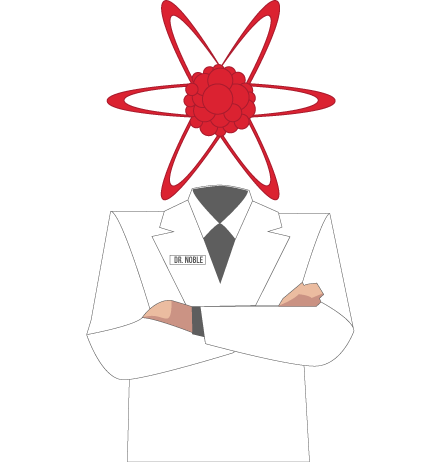
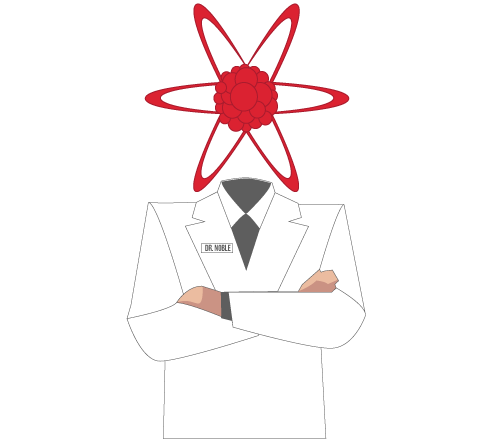
fixed spelling mistakes

diff --git a/index.html b/index.html
@@ -21,17 +21,6 @@
 		</header><!-- close header tag-->
 
 
-		<section class="noble">
-			<div class="character">
-				<img src="images/noble.png">
-			</div><!-- close character tag-->
-		</section><!-- close dr. noble container tag-->
-
-		<section>
-			<h1>Introduction</h1>
-			<p>idienwfe eiubferuf f r h h rhehbhbf herinv iruen urneunfuf uhrefu</p>
-		</section>
-
 		<section class="elements">
 			<a href="helium.html">
 			<section id="element">  
@@ -94,7 +83,21 @@
         	</a>
 		</section><!-- close elements tag-->
 
-	
+
+		<section class="intro">
+
+		<section class="noble">
+				<img src="images/big-noble.png">
+		</section><!-- close dr. noble container tag-->
+
+		<section class="intro-para">
+			<h1>Introduction</h1>
+			<p>All the different elements are arranged in a chart called the periodic table. A Russian scientist called Dmitri Mendeleev produced one of the first practical periodic tables in the 19th century. The modern periodic table is based closely on the ideas he used</p>
+			<p>The main groups are numbered from 1 to 7 going from left to right, and the last group on the right is group 0. The section in the middle of the table is called the Transition Metals. If you know what one of the elements in a group is like, you can make predictions about the other elements in a group. For example, all the elements in group 1 are reactive metals, and all the elements in group 0 are unreactive non-metals.</p>
+			<p>Each element has its own chemical symbol, made from letters. Remember that you will only find elements in the periodic table and never compounds. So you won’t find substances like water or copper sulfate in the periodic table</p>
+		</section><!-- close intro para tag-->
+
+		</section><!-- close intro tag-->
 
 	</section><!-- close container tag-->
 

diff --git a/argon.html b/argon.html
@@ -32,7 +32,7 @@
 
 	<section class="intro">
 			<h1>─── ARGON ───</h1>
-			<p>A lot of jokes are made about how long it took for scientists to discover argon becasue it is the most common noble gas, it makes up more than 1% of the atmosphere. at the time though it would have been impossible to discover it any earlier becasue the equiptment just wasn't avaiable. </p>
+			<p>A lot of jokes are made about how long it took for scientists to discover argon because it is the most common noble gas, it makes up more than 1% of the atmosphere. at the time though it would have been impossible to discover it any earlier because the equipment just wasn't available. </p>
 			<p>For a long time scientists didn't think argon combined with any other elements but they were wrong, they realised they were wrong and now it is the element it is today.</p>
 	</section><!-- close intro tag -->
 
@@ -54,7 +54,7 @@
 			<div class="text">
 				<h1>USES</h1>
 				<p> 
-				Some fo the things argon is used in includes light bulbs, weilding and even in vacuum tubes. </p>
+				Some of the things argon is used in include light bulbs, welding and even in vacuum tubes. </p>
 			</div><!-- close text tag -->
 			<div class="text">
 				<h1>DISCOVERY</h1>
@@ -62,7 +62,7 @@
 			</div><!-- close text tag -->
 			<div class="text">
 				<h1>COOL FACT</h1>
-				<p>A cool fact about Argon is that it is used when scientists grow glowing silicon crystals because it doesnt react with the silicon.</p>
+				<p>A cool fact about Argon is that it is used when scientists grow glowing silicon crystals because it doesn't react with the silicon.</p>
 			</div><!-- close text tag -->
 		</section><!-- close text showcase -->
 

diff --git a/helium.html b/helium.html
@@ -32,7 +32,7 @@
 	<section class="intro">
 			<h1>─── HELIUM ───</h1>
 			<p>The first element we're going to be learning about is Helium (He), It is the first of the noble gases, the first place scientists discovered helium was on the sun! </p>
-			<p>Helium is quite similar to some other elements because it is found as a gas and has no smell or colour. It is a very popular element, this is becasue it is found everywhere, it makes up a small part of the air that you breathe.</p>
+			<p>Helium is quite similar to some other elements because it is found as a gas and has no smell or colour. It is a very popular element, this is because it is found everywhere, it makes up a small part of the air that you breathe.</p>
 	</section><!-- close intro tag -->
 
 
@@ -57,11 +57,11 @@
 			</div><!-- close text tag -->
 			<div class="text">
 				<h1>DISCOVERY</h1>
-				<p> Helium was first noticed on the sun, but was discovered on earth in 1895 by a scottish chemist called Sir William Ramsay</p>
+				<p> Helium was first noticed on the sun but was discovered on earth in 1895 by a Scottish chemist called Sir William Ramsay</p>
 			</div><!-- close text tag -->
 			<div class="text">
 				<h1>COOL FACT</h1>
-				<p>If you get a balloon thats filled with helium and inhale it your voice will go really high and you will sound squeaky. It is dangerous to do though.</p>
+				<p>If you get a balloon that's filled with helium and inhale it your voice will go really high and you will sound squeaky. It is dangerous to do though.</p>
 			</div><!-- close text tag -->
 		</section><!-- close text showcase -->
 

diff --git a/css/style.css b/css/style.css
@@ -10,6 +10,7 @@
 
 }
 
+/* title */
 
 .container{
 	margin: auto;
@@ -38,10 +39,15 @@ header{
 	font-family: oswald;
 }
 
+/* title */
+
+/* elements */
+
 .elements{
 	float: left;
 	width: 100%;
-	margin-top: 1em;
+	margin-top: 3em;
+	margin-bottom: 3em;
 }
 
         
@@ -262,65 +268,42 @@ header{
 	font-size: 2em;
  
 }
+
+/* elements */
         
+/* introduction */
+
+.intro{
+	width: 100%;
+	margin-bottom: 3em;
+
+}
+
+.intro-para h1{
+	font-size: 3em;
+	padding: .2em;
+	color: #db2231;
+}
+
+.intro-para p{
+	font-size: 1.2em;
+	padding-left: .5em;
+	width: 50%;
+	padding-top: 1em;
+
+}
+
 .large {
 	font-size: 4em;
 
 }
 
 .noble{
-	float: left;
-	width: 100%;
-	margin-top: 2em;
+	float: right;
+	width: 50%;
+	margin-top: 7em;
 
 }
 
-.character{
-	margin-left: auto;
-	margin-right: auto;
-	width: 8%;
-}
-
-
-.button-container{
-	float: left;
-	width: 100%;
-	margin-bottom: 2em;
-
-}
-
-.button{
-	margin-left: auto;
-	margin-right: auto;
-	border: 3px solid #6360a9;
-	width: 20%;
-	height: 10%;
-	text-align: center;
-	transition: all 1000ms cubic-bezier(0.19, 1, 0.22, 1);
-
-}
-
-.button h1 {
-	margin: 0;
-	color: #6360a9;
-	font-size: 1.5em;
-	margin-top: .5em;
-}
-
-
-.button:hover {
-	background-color: #6360a9;
-	color: #eadec1;
-	transition: all 1000ms cubic-bezier(0.19, 1, 0.22, 1);
-}
-
-
-.button:hover >*{
-	background-color: #6360a9;
-	color: #eadec1;
-	transition: all 1000ms cubic-bezier(0.19, 1, 0.22, 1);
-}
-
-
-
+/* introduction */
 

diff --git a/krypton.html b/krypton.html
@@ -31,7 +31,7 @@
 
 	<section class="intro">
 			<h1>─── KRYPTON ───</h1>
-			<p>This element may have the same name as supermans home planet but that is not where it is from, it's from right here on earth. It is a very small part of our atmospere here on earth, it only makes up one part per million of our atmosphere. </p>
+			<p>This element may have the same name as supermans home planet but that is not where it is from, it's from right here on earth. It is a very small part of our atmosphere here on earth, it only makes up one part per million of our atmosphere. </p>
 			<p>Unlike some of the other noble gases it has a colour, when it's a solid it is white but when it's a gas it has green and orange traits.</p>
 	</section><!-- close intro tag -->
 
@@ -53,7 +53,7 @@
 			<div class="text">
 				<h1>USES</h1>
 				<p> 
-				Kyrpton was once used in finding out how long a meter is, over a while though the length of the meter changed to be a specific distance light travels in a vacuum. </p>
+				Krypton was once used in finding out how long a meter is, over a while though the length of the meter changed to be a specific distance light travels in a vacuum. </p>
 			</div><!-- close text tag -->
 			<div class="text">
 				<h1>DISCOVERY</h1>

diff --git a/neon.html b/neon.html
@@ -31,8 +31,8 @@
 
 	<section class="intro">
 			<h1>─── NEON ───</h1>
-			<p>Neon is a very unique element and one of the most popular becasue it's a fun one. Most people have seen a big glowing sign at some point? this is neon, it looks like that when you electrocute it. without electricity it isn't very cool. </p>
-			<p>Before people knew about the effects of electicity on neon it was a very boring element, it was once this was dscovered that it became the element it is today.</p>
+			<p>Neon is a unique element and one of the most popular because it's a fun one. Most people have seen a big glowing sign at some point? this is neon, it looks like that when you electrocute it. without electricity, it isn't very cool. </p>
+			<p>Before people knew about the effects of electricity on neon it was a very boring element, it was once this was discovered that it became the element it is today.</p>
 	</section><!-- close intro tag -->
 
 

diff --git a/radon.html b/radon.html
@@ -32,7 +32,7 @@
 	<section class="intro">
 			<h1>─── RADON ───</h1>
 			<p>The last element we're going to talk about is Radon, Being one of the heaviest gases, radon tends to accumulate in low lying areas such as house basements, but is a gas that is very hard to detect.</p>
-			<p>Similar to hydrogen (H), helium is usually found as a gas and has no color or smell. Helium is found everywhere in the Universe ands outermost electron orbital is full with two electrons. You can also find helium in compressed air tanks, lasers, and as coolants in nuclear reactors.</p>
+			<p>Similar to hydrogen (H), helium is usually found as a gas and has no colour or smell. Helium is found everywhere in the Universe and outermost electron orbital is full with two electrons. You can also find helium in compressed air tanks, lasers, and as coolants in nuclear reactors.</p>
 	</section><!-- close intro tag -->
 
 

diff --git a/xenon.html b/xenon.html
@@ -31,7 +31,7 @@
 
 	<section class="intro">
 			<h1>─── XENON ───</h1>
-			<p>The name is derived from the Greek 'xenos' meaning stranger.  </p>
+			<p>The name is derived from the Greek 'Xenos' meaning stranger.  </p>
 			<p>Xenon is a trace gas found in the Earth's atmosphere to the extent of about one part in 20 million, According to the Los Alamos National Laboratory. This makes it very rare. It is also found in Mars' atmosphere</p>
 	</section><!-- close intro tag -->
 
@@ -53,7 +53,7 @@
 			<div class="text">
 				<h1>USES</h1>
 				<p> 
-				Xenon is used in camera flashes, in motion picture projection, and in high pressure arc lamps to produce ultraviolet light.</p>
+				Xenon is used in camera flashes, in motion picture projection, and in high-pressure arc lamps to produce ultraviolet light.</p>
 			</div><!-- close text tag -->
 			<div class="text">
 				<h1>DISCOVERY</h1>
